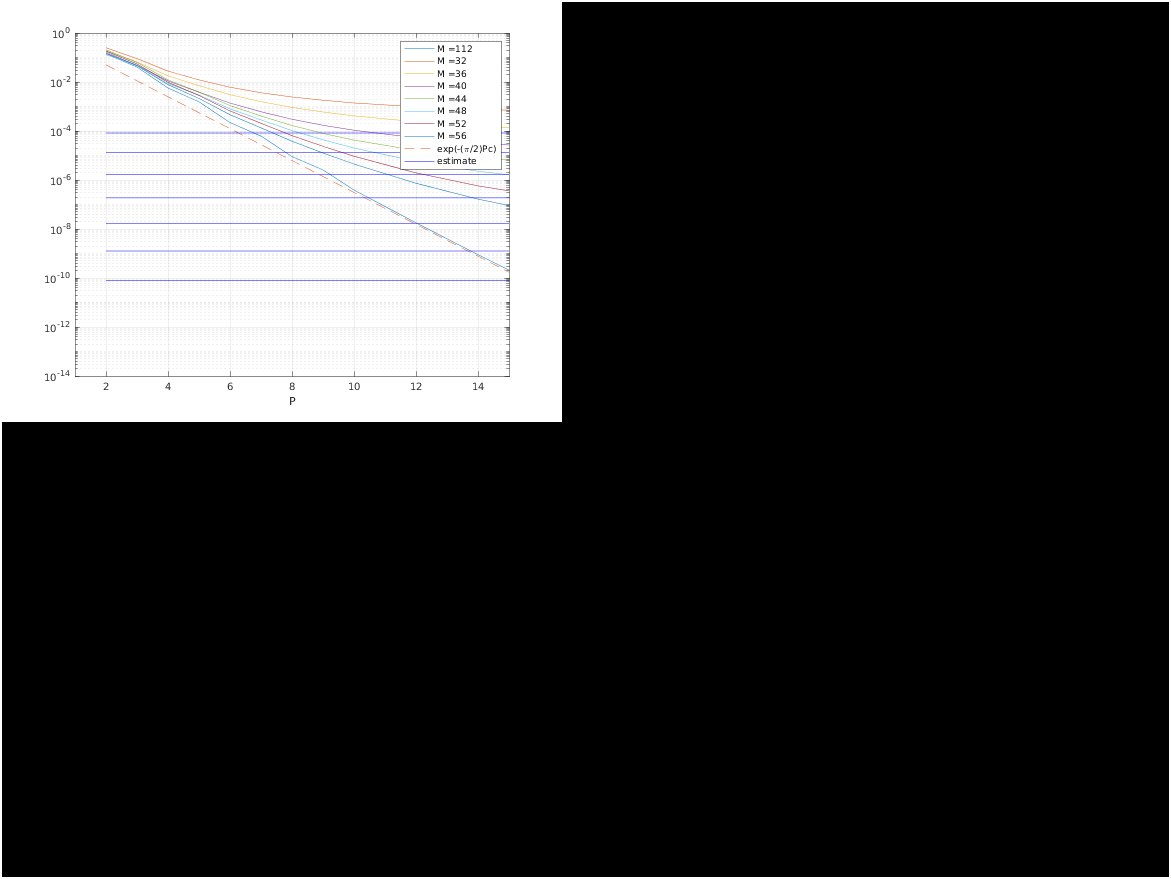
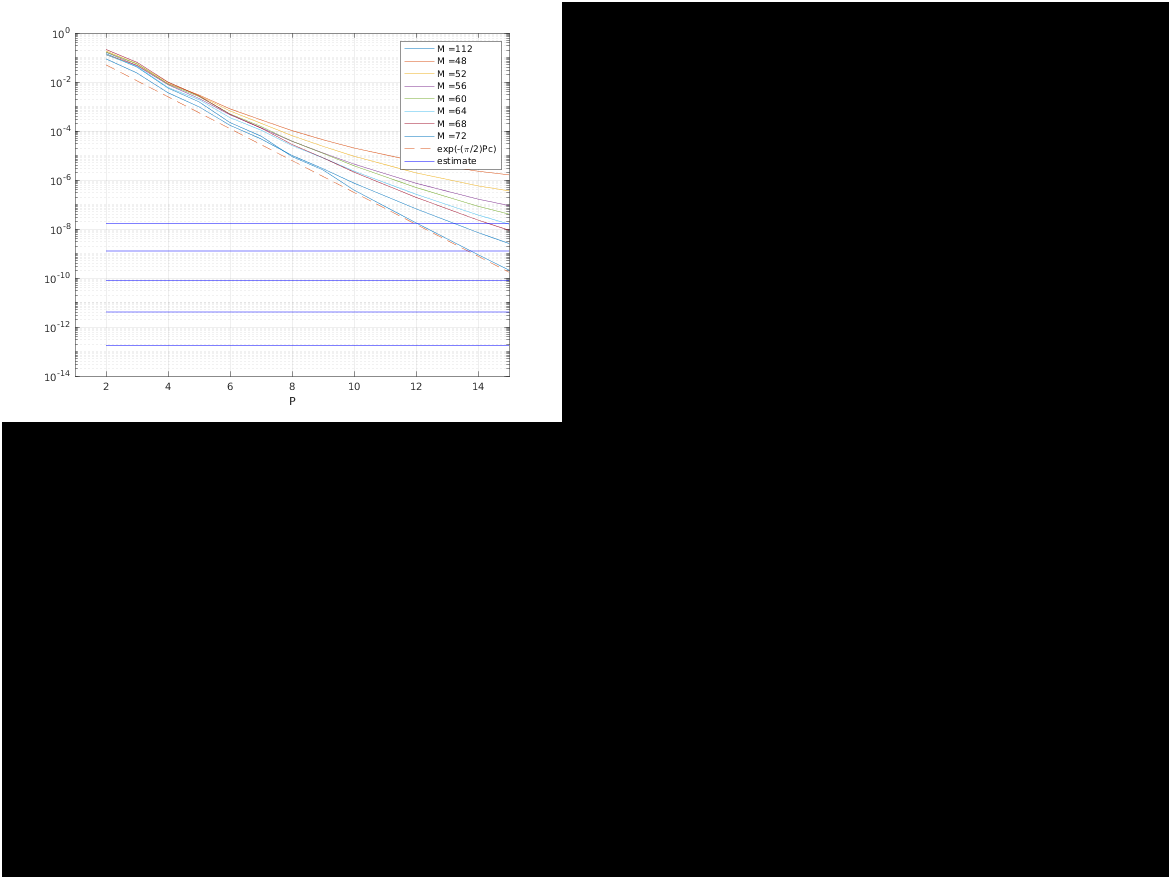
imgs

Changed region(s): [[0.0922, 0.0614, 0.4304, 0.2765], [0.3689, 0.0922, 0.3997, 0.1536]]

diff --git a/SE_Stokes_run/SE3P_Stokes/P_error.m b/SE_Stokes_run/SE3P_Stokes/P_error.m
@@ -46,7 +46,7 @@ end
 %ref = SE3P_Stokes(1:N,x,f,opt);
 rms_ref = rmse(ref);
 %% Compare solutions with changing P
-MM = 32:4:56;
+MM = 48:4:72;
 str = {};
 est = @(M,xi,L,f) sqrt(f)*(xi^3*L^2/(pi^4*(M/2)^(3/2)))*exp(-(pi*(M/2)/(xi*L))^2);
 e_vec = [];
